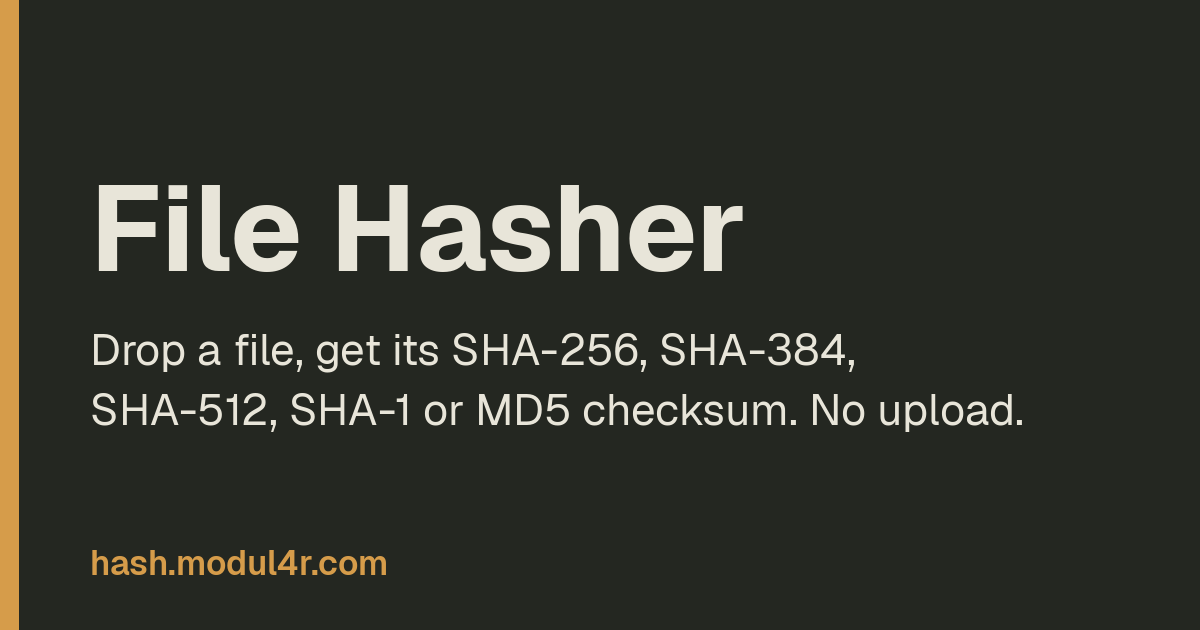
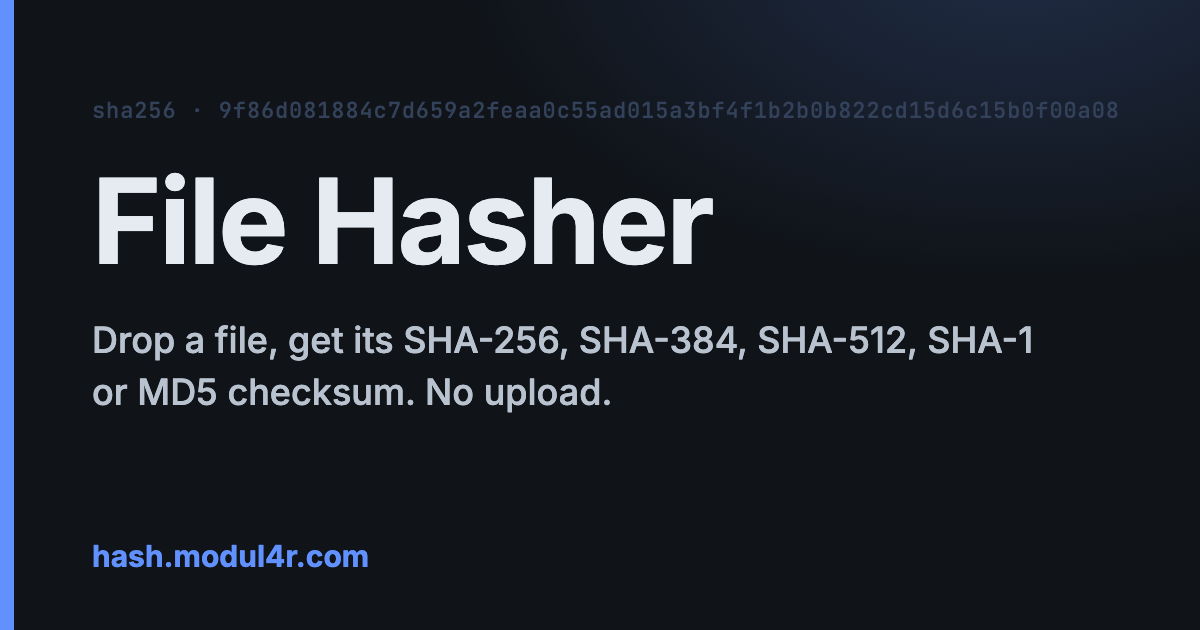
File Hasher's own look, slate and cobalt, in place of the Modul4r green and gold
Claude-Session: https://claude.ai/code/session_014bJMCVWiNEi9z5WpYfzmiJ

diff --git a/src/index.css b/src/index.css
@@ -3,34 +3,34 @@
 @tailwind utilities;
 
 @layer base {
-  /* Tundra, the modul4r house palette. Dark is the primary; light is the same hues
-     inverted so the tool still reads on a bright system. */
+  /* File Hasher's own colours: cool slate, and one cobalt for the answer you
+     came for. Dark is the primary; light is the same hues for a bright system. */
   :root {
-    --bg: 36 39 33;
-    --surface: 52 56 47;
-    --surface-alt: 66 71 59;
-    --text: 232 229 217;
-    --text-muted: 160 158 143;
-    --border: 94 99 83;
-    --accent: 214 156 74;
-    --accent-fg: 26 28 23;
-    --ok: 138 176 96;
-    --bad: 214 106 90;
+    --bg: 16 20 25;
+    --surface: 25 31 39;
+    --surface-alt: 34 42 52;
+    --text: 229 235 241;
+    --text-muted: 142 154 168;
+    --border: 49 59 72;
+    --accent: 96 145 255;
+    --accent-fg: 8 16 36;
+    --ok: 74 201 138;
+    --bad: 240 110 110;
     color-scheme: dark;
   }
 
   @media (prefers-color-scheme: light) {
     :root {
-      --bg: 247 246 241;
+      --bg: 245 247 250;
       --surface: 255 255 255;
-      --surface-alt: 238 236 228;
-      --text: 36 39 33;
-      --text-muted: 106 110 96;
-      --border: 209 206 194;
-      --accent: 166 112 30;
+      --surface-alt: 234 239 245;
+      --text: 17 21 26;
+      --text-muted: 92 104 118;
+      --border: 209 217 227;
+      --accent: 30 90 214;
       --accent-fg: 255 255 255;
-      --ok: 74 118 45;
-      --bad: 176 52 38;
+      --ok: 20 128 72;
+      --bad: 196 48 48;
       color-scheme: light;
     }
   }

diff --git a/index.html b/index.html
@@ -15,8 +15,8 @@
     <link rel="manifest" href="/manifest.webmanifest" />
     <link rel="canonical" href="https://hash.modul4r.com/" />
     <meta name="author" content="Modul4r" />
-    <meta name="theme-color" content="#242721" media="(prefers-color-scheme: dark)" />
-    <meta name="theme-color" content="#f7f6f1" media="(prefers-color-scheme: light)" />
+    <meta name="theme-color" content="#101419" media="(prefers-color-scheme: dark)" />
+    <meta name="theme-color" content="#f5f7fa" media="(prefers-color-scheme: light)" />
 
     <meta property="og:type" content="website" />
     <meta property="og:url" content="https://hash.modul4r.com/" />
